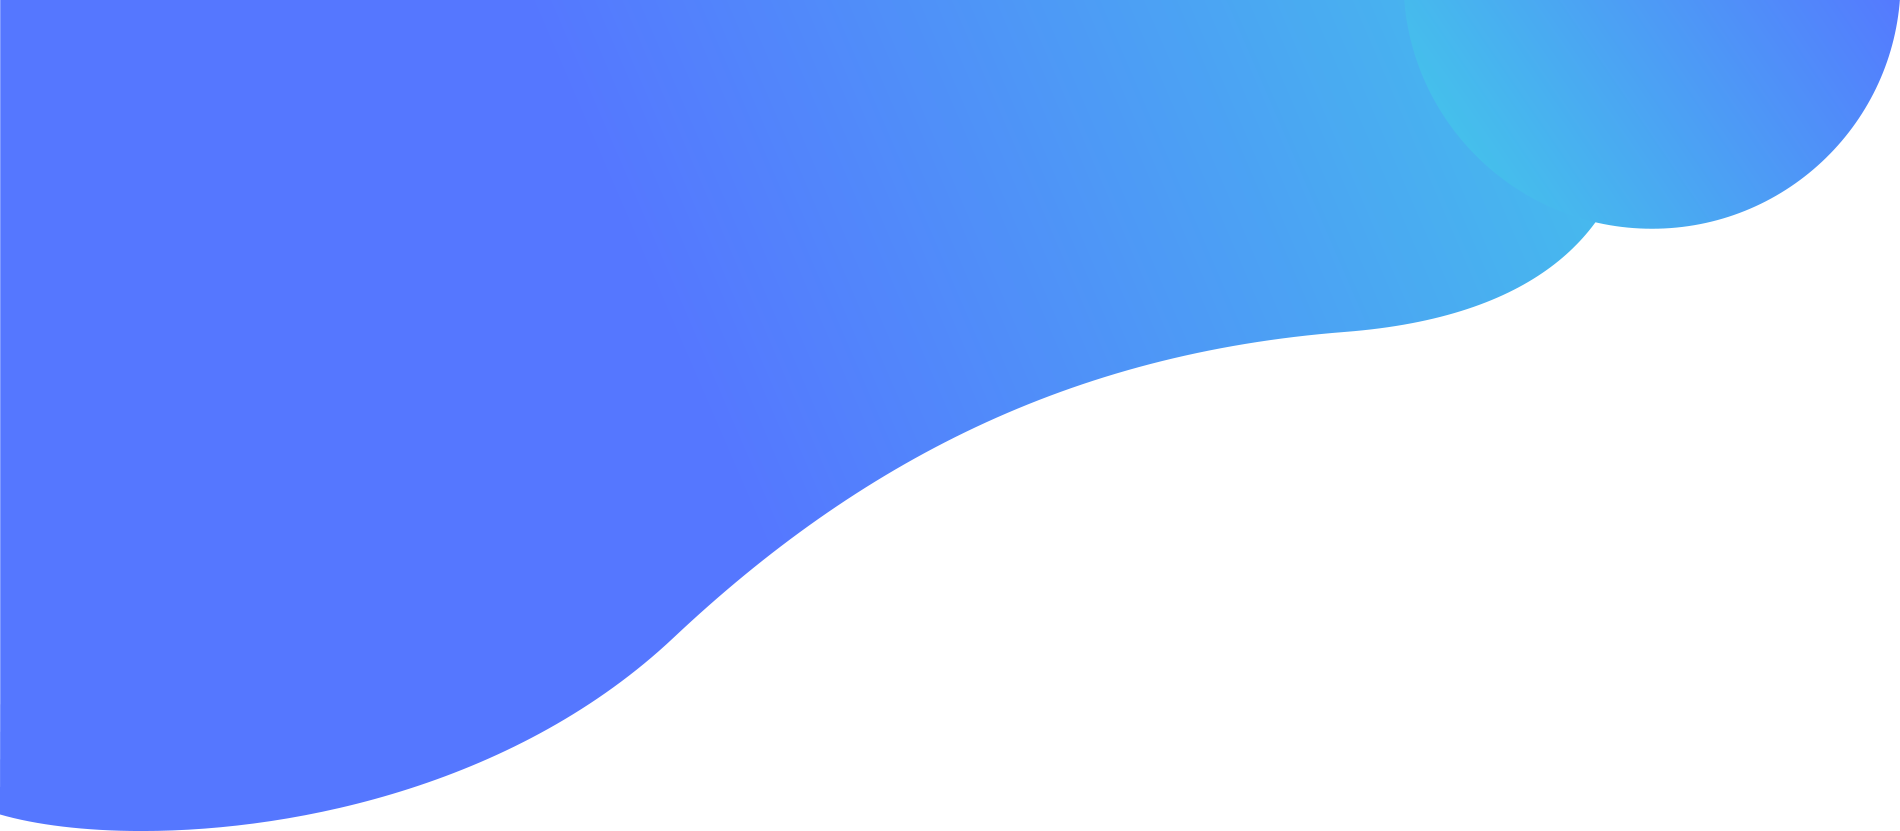
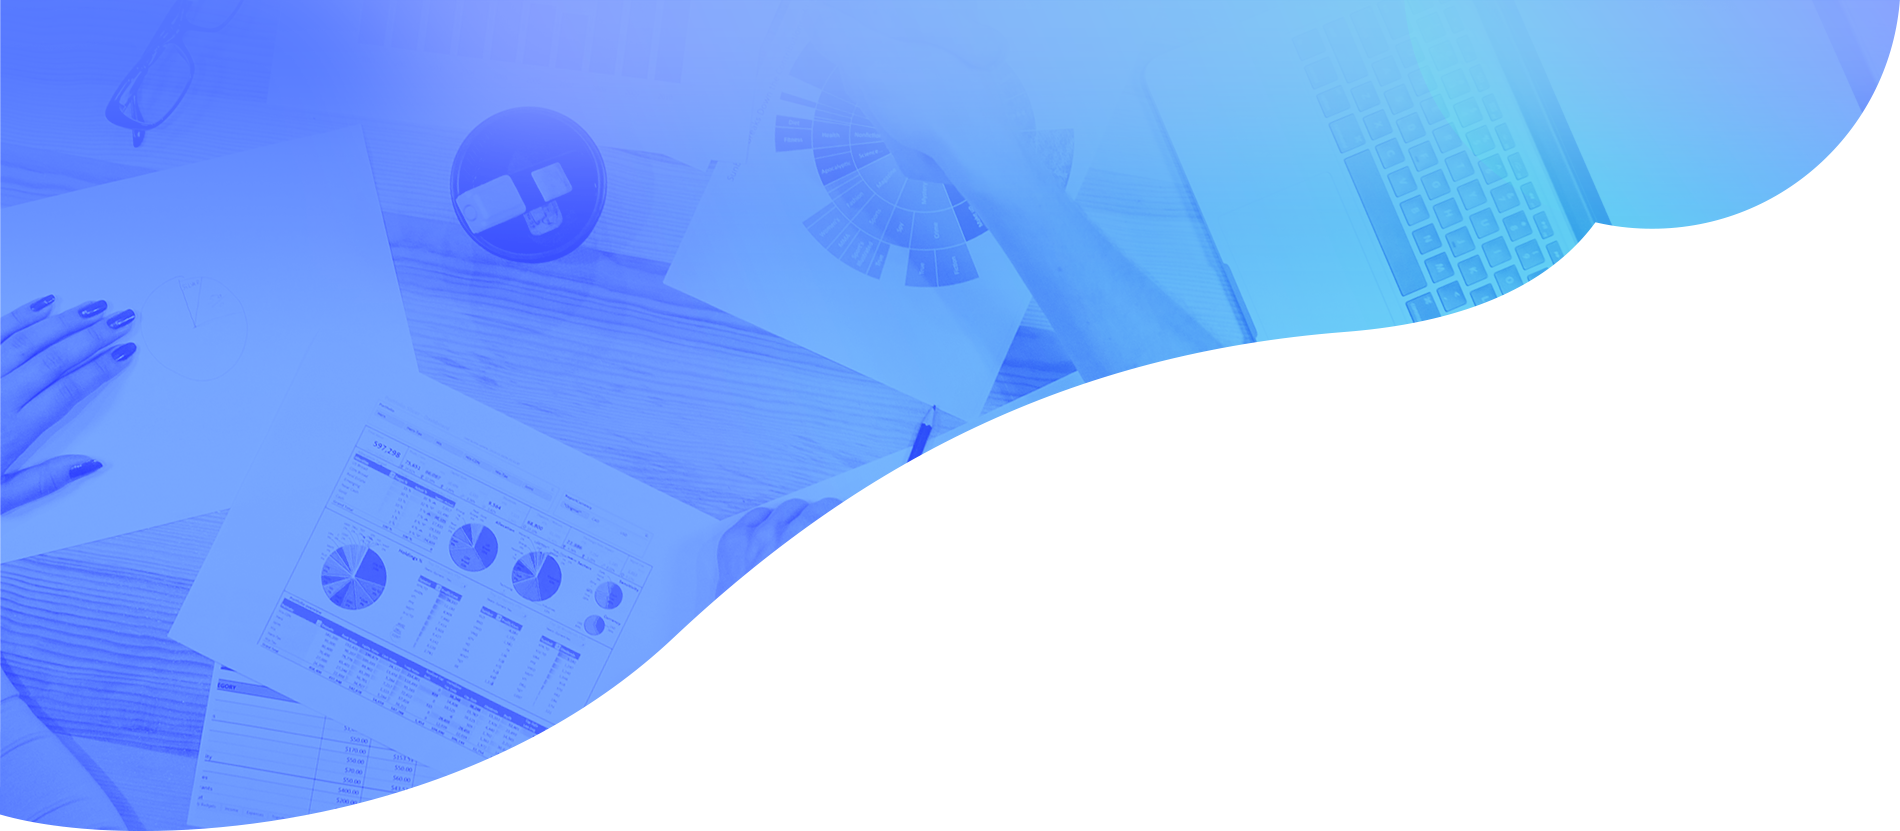
Donation UI

diff --git a/src/components/donation/DonationJumbotron.vue b/src/components/donation/DonationJumbotron.vue
@@ -1,30 +1,26 @@
 <template>
   <v-fade-transition mode="out-in">
-    <v-img src="/static/donation-hero.png" height="35vh"
-      gradient="to top,  rgba(0, 0, 0, .3), rgba(0, 0, 0, .1)">
-      <v-fade-transition mode="out-in">
         <v-container fill-height>
-          <v-layout align-center row wrap>
-            <v-flex xs9 pl-5>
-              <h1 class="display-2 white--text font-weight-bold">
+          <v-layout align-center row wrap style="z-index:1">
+            <v-flex xs9>
+              <div class="title white--text ml-2"> {{$t('Donation.jumbotronSubTitle')}}</div>
+               <div class="white--text mt-2 mb-5 page-title">
                 {{$t('Donation.jumbotronTitle')}}
-              </h1>
-              <div class="title white--text mt-1"> {{$t('Donation.jumbotronSubTitle')}}</div>
-            </v-flex>
-            <v-flex xs3 pl-4>
+              </div>
               <v-btn
               :to="{ name: 'adddonationbox' }"
               v-if="userinfo.is_donator==1"
-              color="#444444" large class="white--text"
+               large class="info--text px-5 title font-weight-bold dona-but" 
               >
-              모금함 등록
+              募金箱登録
               </v-btn>
+            </v-flex>
+            <v-flex xs3 pl-4>
+              
             </v-flex>
           </v-layout>
         </v-container>
       </v-fade-transition>
-    </v-img>
-  </v-fade-transition>
 </template>
 
 <script>
@@ -42,10 +38,14 @@ import {mapState} from 'vuex'
 </script>
 
 <style scoped>
-  .v-btn{
-    min-width: 200px;
-  }
-  .display-2, title{
+  .page-title{
+    font-size:3em;
+    font-weight: bold;
     text-shadow: 2px 2px 4px #00000048;
+  }
+  .dona-but{
+    padding-top:30px;
+    padding-bottom:30px;
+    border-radius: 50px
   }
 </style>

diff --git a/src/components/donation/DonationCard.vue b/src/components/donation/DonationCard.vue
@@ -3,8 +3,23 @@
     <v-card class="rounded-card" style="width:90%;" :class="achieved">
       <v-img :src="card.image"  height="250px">
         <v-flex mt-2 ml-2>
-        <v-chip color="#555555" dark class="daychip subheading">D {{dDay}}</v-chip>
+        <v-chip color="white" class="daychip subheading info--text">D {{dDay}}</v-chip>
         </v-flex>
+        <div class="px-2">
+          <v-progress-linear
+          color="info"
+          height="20"
+          class="rounded-bar  pbar"
+          :value="rate"
+        >
+          <span
+            class="font-weight-bold"
+            style="color:white; margin-left:2%;"
+          >
+            {{rate}}
+          </span>
+        </v-progress-linear>
+        </div>
       </v-img>
        <v-card-text
           style="position: relative;"
@@ -24,21 +39,8 @@
         </v-btn>
       </v-card-text>
       <v-card-text class="px-4">
-        <div class="title font-weight-bold mb-2">{{ card.title }}</div>
+        <div class="title font-weight-bold mb-2" style="margin-top:-1%">{{ card.title }}</div>
         <div>{{card.content.replace(/(<([^>]+)>)/gi, "") | substr(30,'.....')}}</div>
-         <v-progress-linear
-          color="info"
-          height="20"
-          class="rounded-bar"
-          :value="rate"
-        >
-          <span
-            class="font-weight-bold"
-            style="color:white; margin-left:2%;"
-          >
-            {{rate}}
-          </span>
-        </v-progress-linear>
       </v-card-text>
     </v-card>
   </v-layout>
@@ -107,6 +109,9 @@
     filter: grayscale(80%) brightness(100%) contrast(50%)
   }
   .daychip{
-    box-shadow: 0 0 10px #555555
+    box-shadow: 0 0 5px #55555555
+  }
+  .pbar{
+    margin-top: 45%;
   }
 </style>

diff --git a/src/components/donation/DonationContext.vue b/src/components/donation/DonationContext.vue
@@ -3,7 +3,22 @@
 <template>
   <span>
     <v-container grid-list-xl  class="mt-2" v-if="!this.$store.state.loading">
-      <v-layout row wrap class="pr-2" style="margin-right:50px;" justify-end>
+      
+      <v-layout justify-end>
+       <div v-for="(category, index) in category_item" :key="index" class="pa-2 mb-1">
+          <v-btn depressed :category_id="category.id" v-model="category_id" fab class="info">
+          <v-img width="1vh":src="`/static/category/${category.id}.png`" >
+          </v-img> 
+          </v-btn>
+          <v-layout justify-space-around>
+            <div class="caption font-weight-bold grey--text">
+            {{category.name}}
+          </div>
+          </v-layout>
+          
+        </div>
+      </v-layout>
+      <v-layout row wrap justify-end >
         <v-flex xs3>
           <v-select
             v-model="donate_id"
@@ -16,19 +31,6 @@
             solo hide-details>
 					</v-select>
         </v-flex>
-      </v-layout>
-      <v-layout justify-center>
-       <div v-for="(category, index) in category_item" :key="index" class="pa-3 mb-5">
-          <v-btn depressed :category_id="category.id" v-model="category_id" class="fabbtn">
-          <v-img :src="`/static/category/${category.id}.png`" style="border-radius:50%; background-color:#42A5F5; padding:40px;">
-          </v-img> 
-          </v-btn>
-          <v-layout justify-space-around>
-            <div class="caption font-weight-bold grey--text">
-            {{category.name}}
-          </div>
-          </v-layout>
-        </div>
       </v-layout>
       <v-layout
         row wrap

diff --git a/src/components/market/MarketCard.vue b/src/components/market/MarketCard.vue
@@ -1,9 +1,9 @@
 <template>
-  <v-card color="#FAFAFA" style="cursor:pointer;" elevation="8" class="my-4">
+  <v-card color="#FAFAFA" style="cursor:pointer;" elevation="8" class="my-3 marketcard">
     <v-layout align-center>
       <v-flex xs9>
-        <v-card flat color="#FAFAFA" class="my-4">
-          <div v-if="card.isBuy==true" class="text-xs-left red--text">이미 구매한 설문입니다.</div>
+        <v-card flat color="#FAFAFA">
+          <div v-if="card.isBuy==true" class="text-xs-left red--text ml-4">이미 구매한 설문입니다.</div>
           <div class="card-title 
           display-1 font-weight-bold pb-2">
           {{ card.title }}
@@ -49,3 +49,9 @@
     }
   }
 </script>
+
+<style scoped>
+.marketcard{
+  border-radius: 8px;
+}
+</style>

diff --git a/src/views/donationView/Donation.vue b/src/views/donationView/Donation.vue
@@ -3,7 +3,8 @@
 <template lang="html">
   <span>
     <div v-if="this.$route.name == 'donation'">
-      <DonationJumbotron/> 
+       <v-img src="/static/donation-hero.png" style="z-index:0"></v-img>
+      <DonationJumbotron style="margin-top:-500px;"/> 
       <DonationContext/> 
     </div>
     <div v-else>

diff --git a/src/components/market/MarketJumbotron.vue b/src/components/market/MarketJumbotron.vue
@@ -11,8 +11,6 @@
             </div>
             <v-btn large class="info--text px-5 title font-weight-bold sell-but" @click="SET_IS_SURVEY_SALE(true)">アンケート販売</v-btn>
           </v-flex>
-          <v-flex xs3 pl-4>
-        </v-flex>
         </v-layout>
       </v-container>
   </div>
